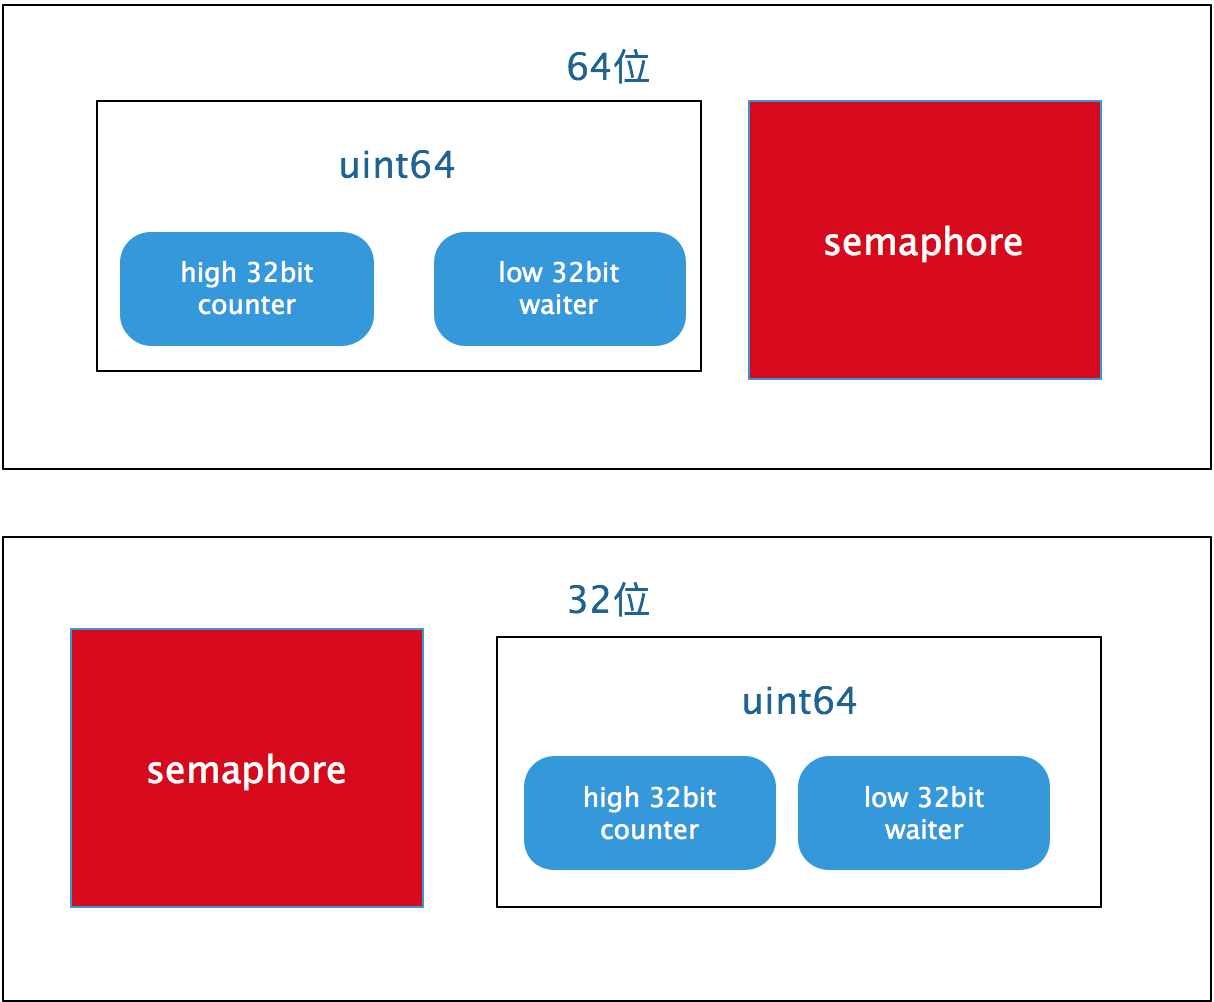
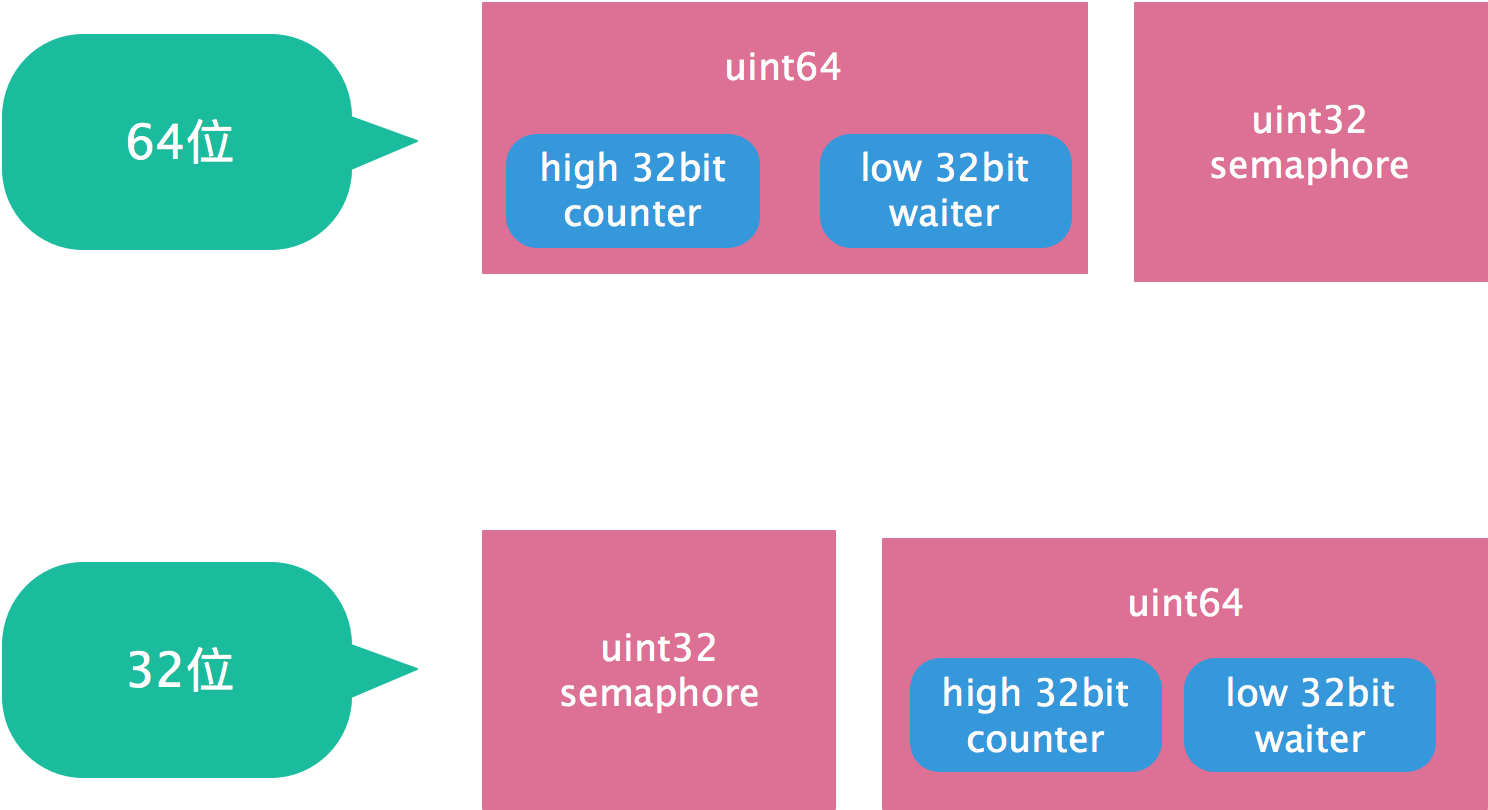
waitGroup

diff --git a/sync/wait_group/main.go b/sync/wait_group/main.go
@@ -4,29 +4,27 @@ import (
 	"context"
 	"fmt"
 	"sync"
+	"sync/atomic"
 	"time"
+	"unsafe"
 
 	"golang.org/x/sync/semaphore"
 )
 
 func main() {
-	//fdg := [2]uint32{}
-	//
-	//state := atomic.AddUint64((*uint64)(unsafe.Pointer(&fdg)), uint64(1)<<32)
-	//fmt.Println("wait:", fdg[0])
-	//fmt.Println("count:", fdg[1])
-	//count := int32(state >> 32)
-	//wait := uint32(state)
-	//fmt.Println("count:", count)
-	//fmt.Println("wait:", wait)
+	fdg := [3]uint32{
+		2, 2, 1,
+	}
+
+	state := atomic.AddUint64((*uint64)(unsafe.Pointer(&fdg)), uint64(-1)<<32)
+	fmt.Println("wait:", fdg[0])
+	fmt.Println("count:", fdg[1])
+	count := int32(state >> 32)
+	wait := uint32(state)
+	fmt.Println("count:", count)
+	fmt.Println("wait:", wait)
 
 	//semaphoreTest()
-
-	for {
-		fmt.Println(12)
-
-		return
-	}
 
 }
 

diff --git a/sync/wait_group/waitGroup源码刨铣.md b/sync/wait_group/waitGroup源码刨铣.md
@@ -171,7 +171,7 @@ $ go vet main.go
 
 `counter`位于高地址位，`waiter`位于地址位  
 
-<img src="/img/waitgroup_state1_1.png" width = "455" height = "375.5" alt="waitgroup" align=center />
+<img src="/img/waitgroup_state1_1.png" width = "558" height = "304" alt="waitgroup" align=center />
 
 下面是state的代码  
 ```go
@@ -193,6 +193,44 @@ func (wg *WaitGroup) state() (statep *uint64, semap *uint32) {
 	v := int32(state >> 32) // count
 	w := uint32(state)  // wait
 ```
+
+通过补码的移位来看下分析下  
+
+```
+statep               0000 0000 0000 0000 0000 0000 0000 0001 0000 0000 0000 0000 0000 0000 0000 0000  
+
+int64(1)             0000 0000 0000 0000 0000 0000 0000 0000 0000 0000 0000 0000 0000 0000 0000 0001
+
+int64(1)<<32：       0000 0000 0000 0000 0000 0000 0000 0001 0000 0000 0000 0000 0000 0000 0000 0000  
+
+statep+int64(1)<<32  
+
+state：              0000 0000 0000 0000 0000 0000 0000 0001 0000 0000 0000 0000 0000 0000 0000 0000  
+
+int32(state >> 32)   0000 0000 0000 0000 0000 0000 0000 0001
+
+uint32(state)：      0000 0000 0000 0000 0000 0000 0000 0000
+```
+
+再来看下-1操作  
+
+```
+statep               0000 0000 0000 0000 0000 0000 0000 0001 0000 0000 0000 0000 0000 0000 0000 0000  
+
+int64(-1)            1111 1111 1111 1111 1111 1111 1111 1111 1111 1111 1111 1111 1111 1111 1111 1111
+
+int64(-11)<<32：     1111 1111 1111 1111 1111 1111 1111 1111 0000 0000 0000 0000 0000 0000 0000 0000  
+
+statep+int64(-11)<<32  
+
+state：              0000 0000 0000 0000 0000 0000 0000 0000 0000 0000 0000 0000 0000 0000 0000 0000  
+
+int32(state >> 32)   0000 0000 0000 0000 0000 0000 0000 0000
+
+uint32(state)：      0000 0000 0000 0000 0000 0000 0000 0000
+```
+
+关于补码的操作可参考[原码, 反码, 补码 详解](https://www.cnblogs.com/zhangziqiu/archive/2011/03/30/computercode.html)  
 
 这里面也用到了信号量  
 
